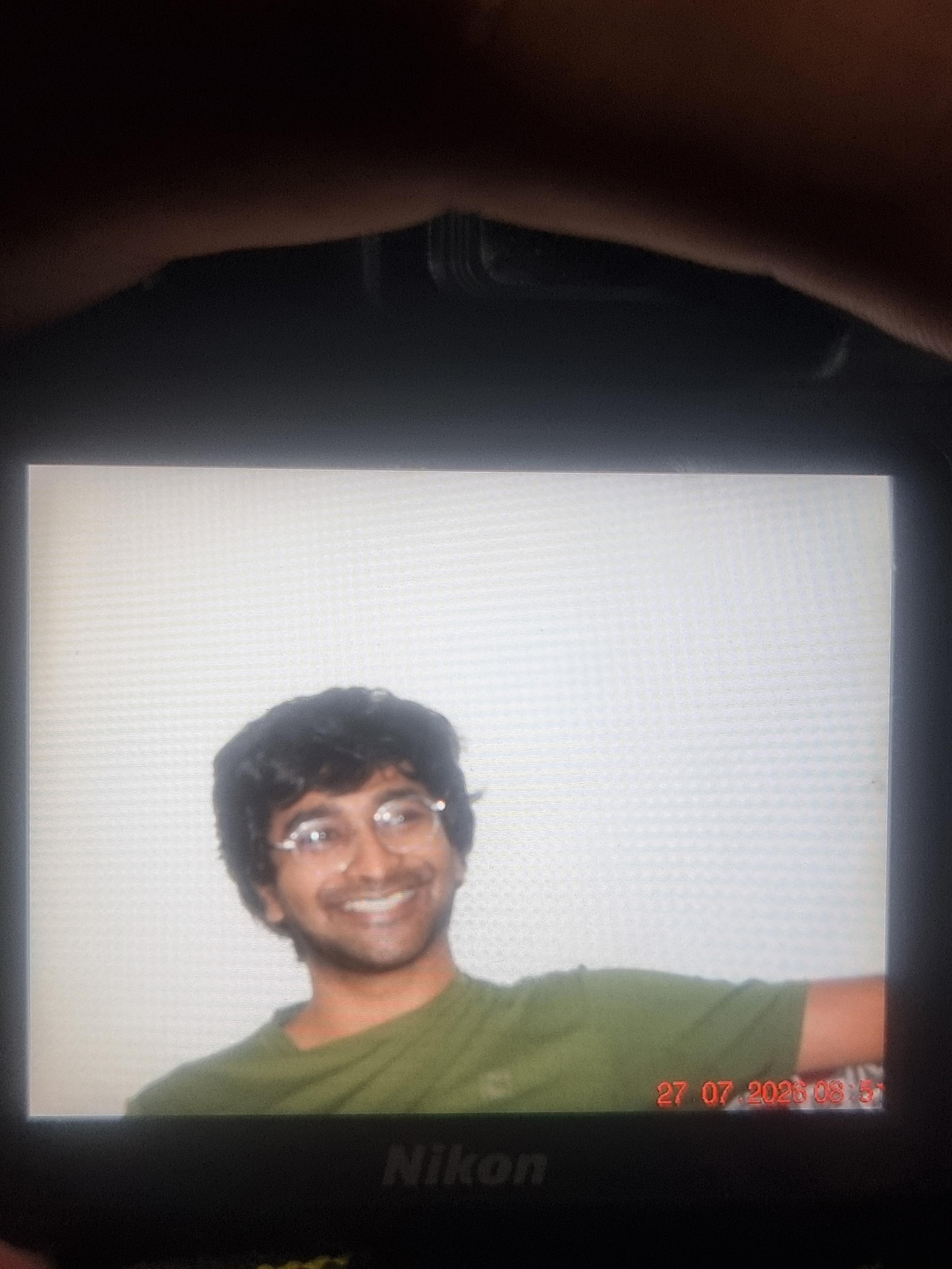
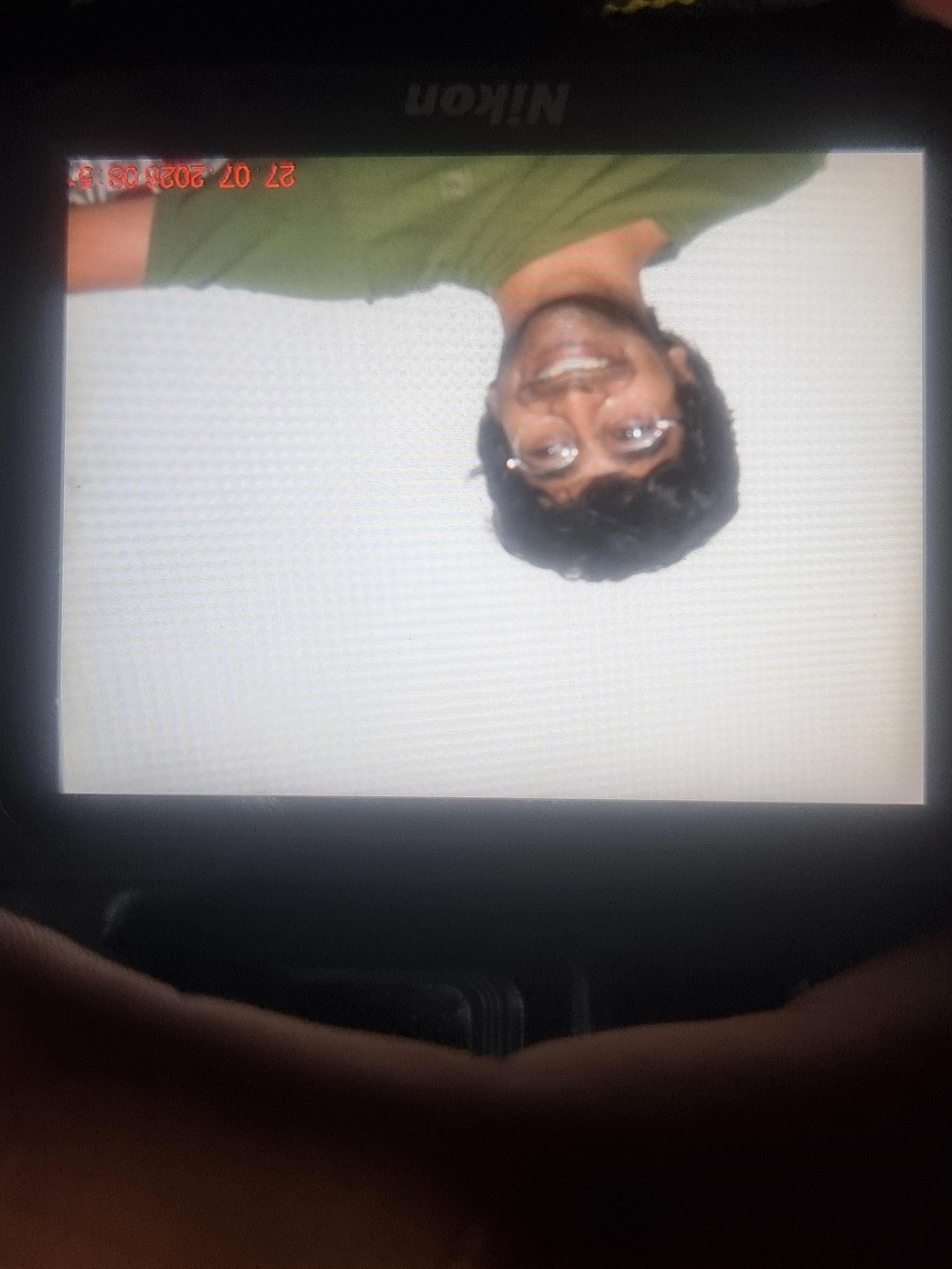
Fix image rotation mapping and expand background to entire site

diff --git a/src/pages/Index.tsx b/src/pages/Index.tsx
@@ -22,15 +22,16 @@ const Index = () => {
 
   return (
     <div className="relative min-h-screen bg-[#111] text-[#D1D1CB] font-sans selection:bg-white selection:text-black">
-      {/* Top Section with Background Image */}
-      <div className="relative min-h-screen flex flex-col overflow-hidden text-white selection:bg-white selection:text-black">
-        {/* Background Image */}
-        <div className="absolute inset-0 z-0 bg-[#111]">
-          <img src="/images/1.jpg" alt="Dhruv Background 1" className={`absolute inset-0 w-full h-full object-cover object-top grayscale transition-opacity duration-1000 ease-in-out ${currentImage === 0 ? 'opacity-100' : 'opacity-0'}`} />
-          <img src="/images/2.jpg" alt="Dhruv Background 2" className={`absolute inset-0 w-full h-full object-cover object-top grayscale transition-opacity duration-1000 ease-in-out ${currentImage === 1 ? 'opacity-100' : 'opacity-0'}`} />
-          <div className="absolute inset-0 bg-black/40 mix-blend-multiply"></div>
-          <div className="absolute inset-0 bg-black/20"></div> {/* extra darkening for readability */}
-        </div>
+      {/* Fixed Background Image Slideshow for entire website */}
+      <div className="fixed inset-0 z-0 bg-[#111]">
+        <img src="/images/1.jpg" alt="Dhruv Background 1" className={`absolute inset-0 w-full h-full object-cover object-top grayscale transition-opacity duration-1000 ease-in-out ${currentImage === 0 ? 'opacity-100' : 'opacity-0'}`} />
+        <img src="/images/2.jpg" alt="Dhruv Background 2" className={`absolute inset-0 w-full h-full object-cover object-top grayscale transition-opacity duration-1000 ease-in-out ${currentImage === 1 ? 'opacity-100' : 'opacity-0'}`} />
+        <div className="absolute inset-0 bg-black/60 mix-blend-multiply"></div>
+        <div className="absolute inset-0 bg-black/50"></div> {/* extra darkening for overall readability */}
+      </div>
+
+      {/* Top Section */}
+      <div className="relative min-h-screen flex flex-col text-white selection:bg-white selection:text-black">
 
         {/* Navbar and Hero Content wrapped in relative z-10 */}
         <div className="relative z-10 flex flex-col flex-1">
@@ -86,7 +87,7 @@ const Index = () => {
       </div>
 
       {/* Professional Experience Timeline */}
-      <section className="px-6 md:px-12 text-white">
+      <section className="relative z-10 px-6 md:px-12 text-white">
         <div className="py-8 md:py-12 w-full max-w-4xl mx-auto">
           <div className="mb-12 flex flex-col md:flex-row md:justify-between items-start md:items-end gap-4 text-left">
             <h2 className="text-3xl md:text-4xl lg:text-5xl font-bold tracking-tighter leading-tight text-white">Experience</h2>
@@ -139,7 +140,7 @@ const Index = () => {
       </section>
 
       {/* Projects List */}
-      <section className="px-6 md:px-12 text-white">
+      <section className="relative z-10 px-6 md:px-12 text-white">
         <div className="py-8 md:py-12 w-full max-w-4xl mx-auto">
           <div className="mb-8 flex flex-col md:flex-row md:justify-between items-start md:items-end gap-4 text-left">
             <h2 className="text-2xl md:text-3xl lg:text-4xl font-bold tracking-tighter leading-tight text-white">Selected Projects</h2>
@@ -193,7 +194,7 @@ const Index = () => {
       </section>
 
       {/* Footer */}
-      <footer className="w-full px-6 md:px-12 bg-transparent border-t-[3px] border-white/20">
+      <footer className="relative z-10 w-full px-6 md:px-12 bg-transparent border-t-[3px] border-white/20">
         <div className="py-12 md:py-16 w-full max-w-4xl mx-auto flex flex-col md:flex-row justify-between items-start md:items-end gap-12 md:gap-4 text-[#D1D1CB] text-sm font-semibold tracking-widest">
           <div className="flex flex-col items-start gap-6 md:gap-8">
             <div className="text-xl font-bold tracking-tighter">Dhruv Varachhiya</div>

diff --git a/rotate_images.py b/rotate_images.py
@@ -1,0 +1,14 @@
+from PIL import Image
+import os
+
+images = ["public/images/1.jpg", "public/images/2.jpg"]
+for img_path in images:
+    if os.path.exists(img_path):
+        with Image.open(img_path) as img:
+            # The images are rotated 90 degrees counter-clockwise
+            # So we rotate 90 degrees clockwise (which is -90 or 270)
+            rotated = img.transpose(Image.ROTATE_270)
+            rotated.save(img_path)
+            print(f"Rotated {img_path}")
+    else:
+        print(f"Not found: {img_path}")

diff --git a/fix_rotation.py b/fix_rotation.py
@@ -1,0 +1,13 @@
+from PIL import Image
+import os
+
+images = ["public/images/1.jpg", "public/images/2.jpg"]
+for img_path in images:
+    if os.path.exists(img_path):
+        with Image.open(img_path) as img:
+            # Rotate 180 degrees to fix the orientation
+            rotated = img.transpose(Image.ROTATE_180)
+            rotated.save(img_path)
+            print(f"Rotated {img_path} 180 degrees")
+    else:
+        print(f"Not found: {img_path}")
